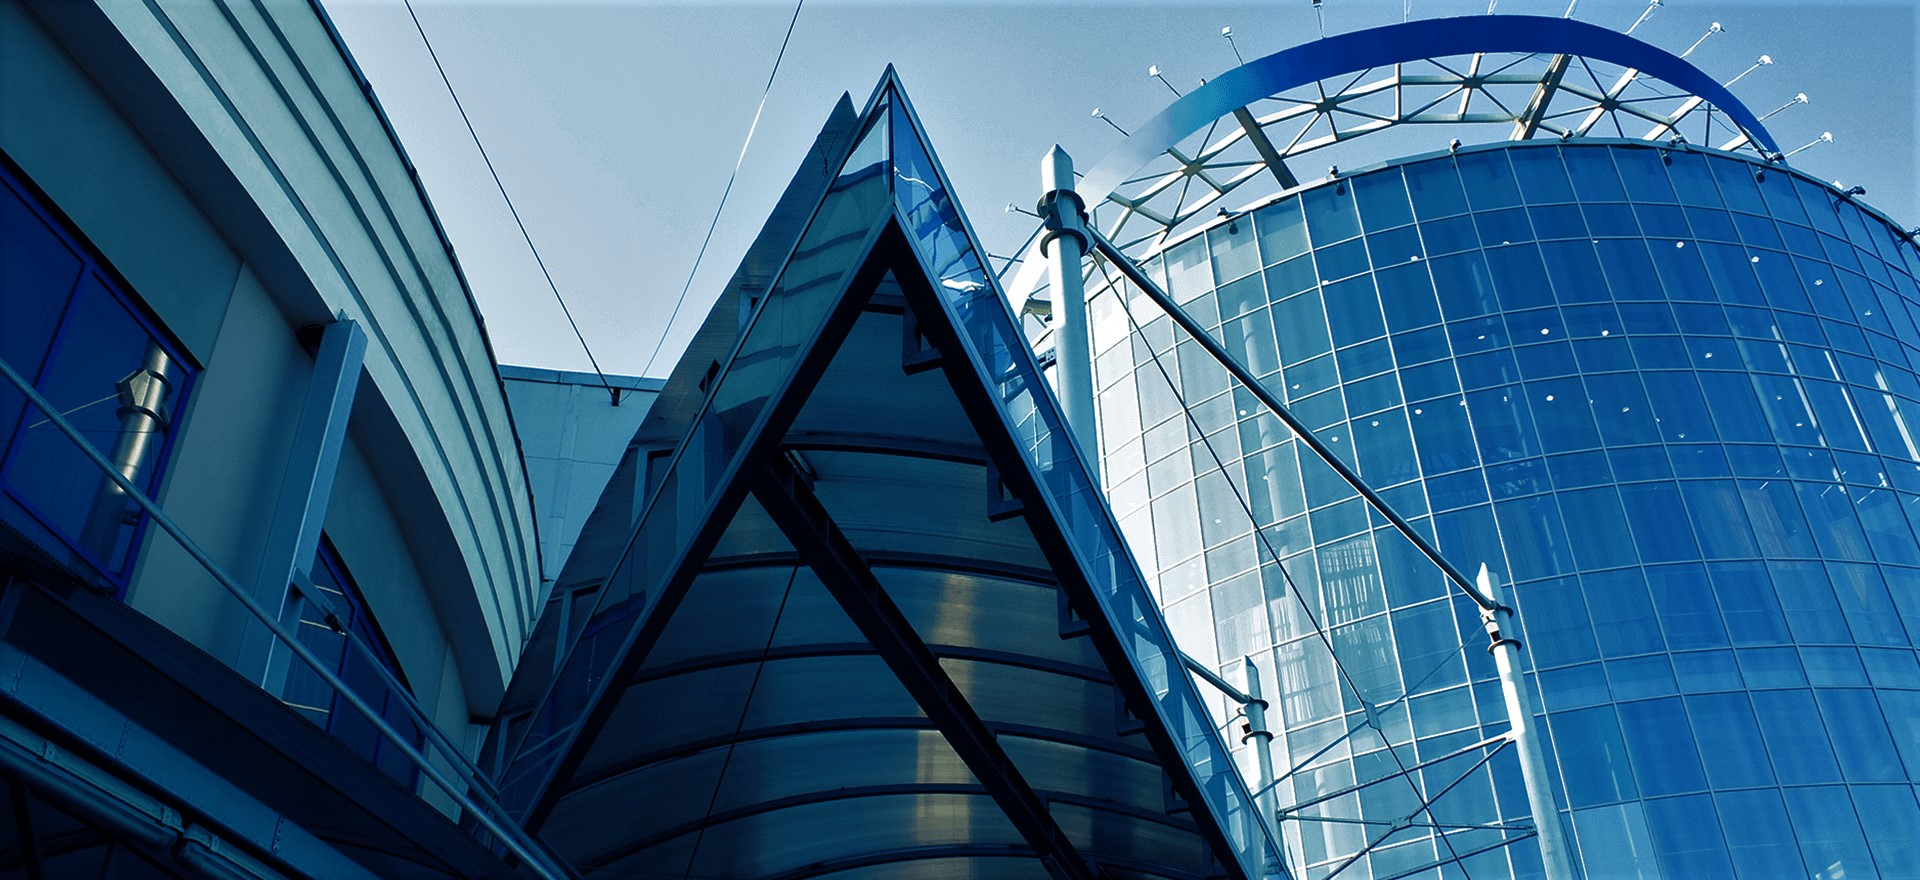
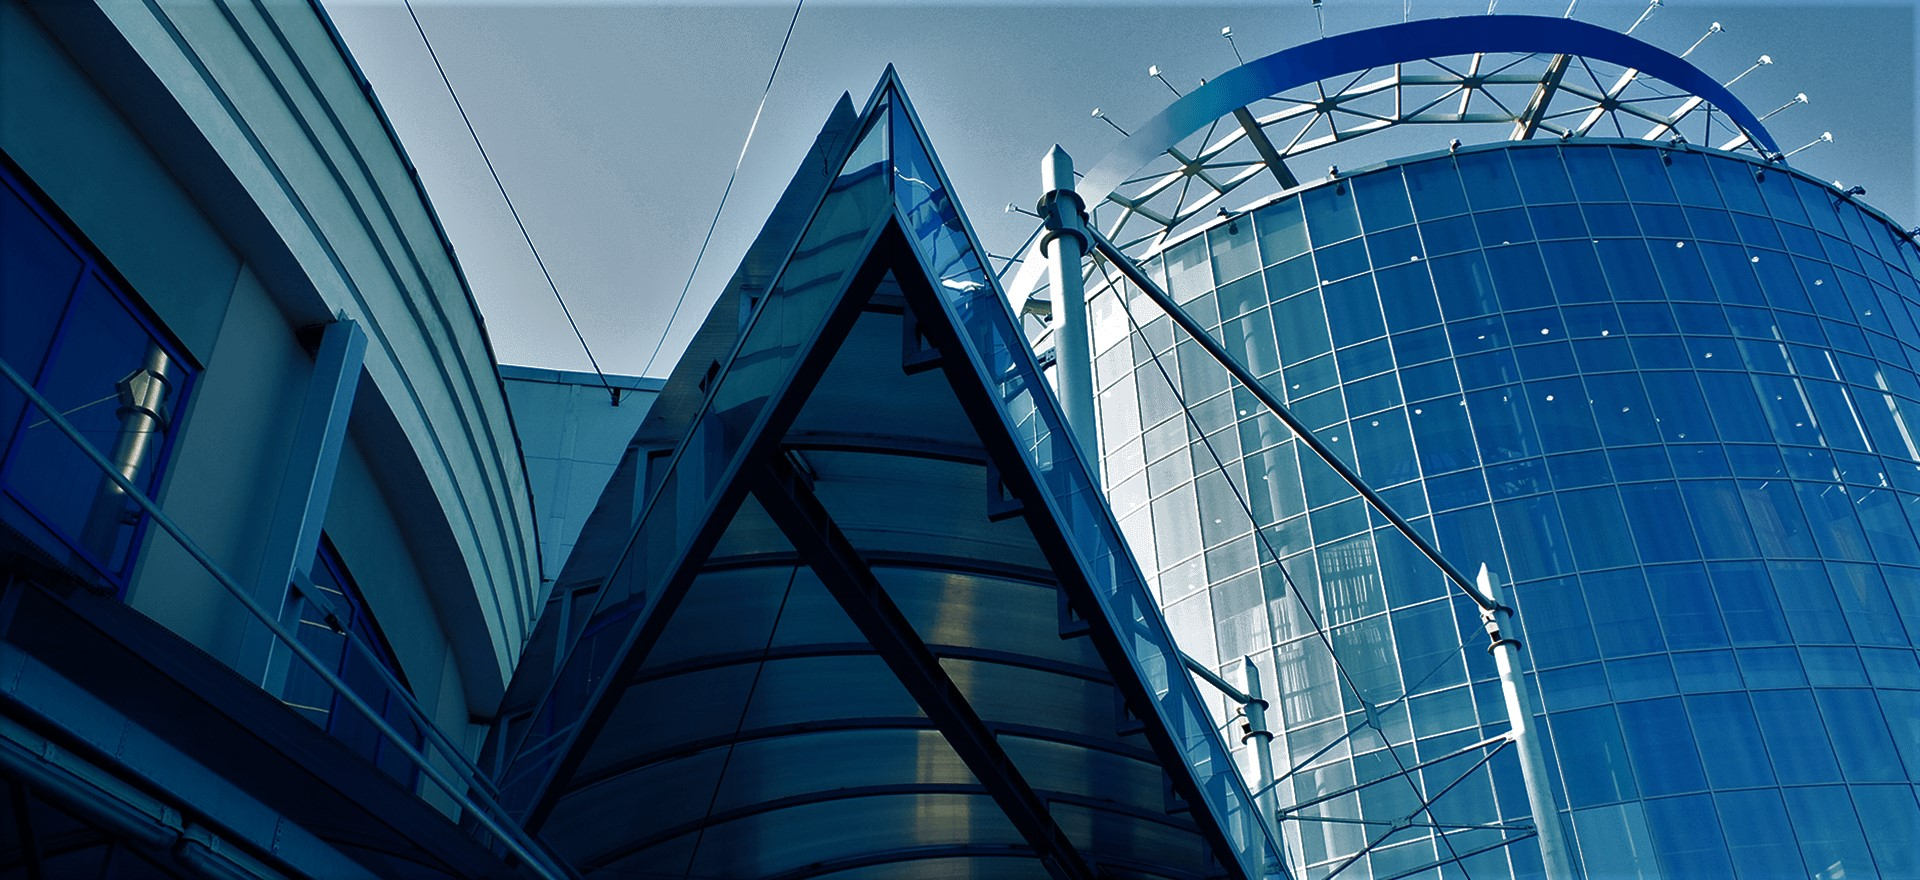
ddd

Changed region(s): [[0.0938, 0.0, 1.0, 1.0], [0.9375, 0.9818, 0.9688, 1.0]]

diff --git a/MANUFAX.css b/MANUFAX.css
@@ -32,7 +32,7 @@
 
 .banner{
     
-    background: url(MANUFAX_pic/asset\ 1.png) center center  ;
+    background: url(MANUFAX_pic/asset\ 1-dark.jpg) center center  ;
     position: relative;
     width: 100%;
     height: 800px;
@@ -41,7 +41,7 @@
 
 
 /* 在banner前面加個半透明黑色史背景突變暗 */
-.banner::before{
+/* .banner::before{
     content: ''; 
     display: block; 
     position: absolute; 
@@ -49,7 +49,7 @@
     opacity: 0.6; 
     width: 100%; 
     height: 100%;
-}
+} */
 
 .header{
     width: 100%;
